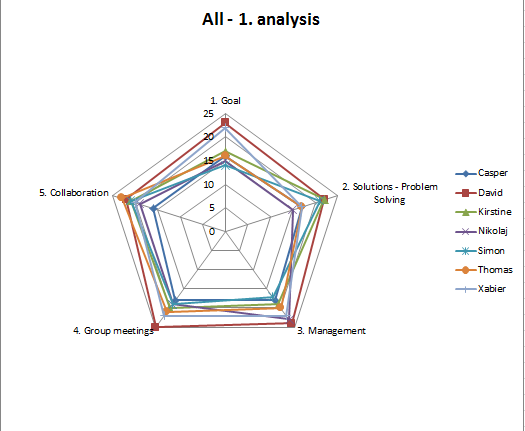
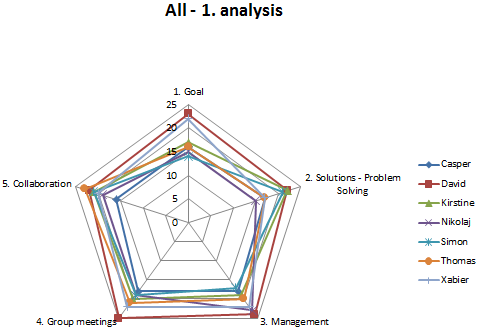
cleaned the spiderweb figures

diff --git a/report/content/Collaboration/Collaborameter.tex b/report/content/Collaboration/Collaborameter.tex
@@ -5,7 +5,7 @@ The first time the Collaborameter was filled out, some of the statements felt ir
 
 \begin{figure}[h]
 \centering
-\includegraphics[width=0.7\linewidth]{graphics/1analysisCollaborameter}
+\includegraphics[width=0.6\linewidth]{graphics/1analysisCollaborameter}
 \caption[Result from first Collaborameter analysis]{The result from the first Collaborameter analysis. Each person has a color. The further the color is from the center of the spiderweb, the more satisfied the person is with the groupwork.}
 \label{fig:1analysisCollaborameter}
 \end{figure}
@@ -15,7 +15,7 @@ The second analysis was taken towards in the end of the project, than in the mid
 
 \begin{figure}[h]
 \centering
-\includegraphics[width=0.7\linewidth]{./graphics/2analysisCollaborameter}
+\includegraphics[width=0.6\linewidth]{./graphics/2analysisCollaborameter}
 \caption{The result from the second Collaborameter analysis.}
 \label{fig:2analysisCollaborameter}
 \end{figure}
@@ -24,7 +24,7 @@ The third Collaborameter analysis was done in the end of the project, when almos
 
 \begin{figure}
 \centering
-\includegraphics[width=0.7\linewidth]{./graphics/3analysisCollaborameter}
+\includegraphics[width=0.6\linewidth]{./graphics/3analysisCollaborameter}
 \caption{The result from the third Collaborameter analysis.}
 \label{fig:3analysisCollaborameter}
 \end{figure}
@@ -32,7 +32,7 @@ The third Collaborameter analysis was done in the end of the project, when almos
 The three figures of the Collaborameter results show that the members of the group disagrees about how well the group is functioning. The disagreement is highest in the Group Meetings and the Management sections, and the disagreement increases throughout the project. To test how the rating of the Collaborameter statements changes throughout the project the average of the members Collaborameter ratings of the three analysis are found and shown in figure \ref{fig:ALLanalysisCollaborameter}. It is clear that the Goal categori is the one that changes the least, and the Group meeting is the one that changes the most. All the ratings are most positive in the first analysis, and then becomes more negative. The second and thirs analysis are almost the same. This is due to the short period of time between the ratings. 
 \begin{figure}
 \centering
-\includegraphics[width=0.7\linewidth]{./graphics/ALLanalysisCollaborameter}
+\includegraphics[width=0.45\linewidth]{./graphics/ALLanalysisCollaborameter}
 \caption[Average result of the Collaborameter results]{The average result from the three Collaborameter analysis. The progress of the group work can be seen.}
 \label{fig:ALLanalysisCollaborameter}
 \end{figure}

diff --git a/report/master_doc.tex b/report/master_doc.tex
@@ -82,6 +82,7 @@
 \input{./content/Collaboration/Swot}
 \input{./content/Collaboration/GPITGAIT}
 \input{./content/Collaboration/StudentToStudentCollaboration}
+\clearpage
 \input{./content/Collaboration/Collaborameter}
 \clearpage
 \input{./content/Innovation_and_business/pictures}
@@ -111,5 +112,6 @@
 \include{content/Appendix/Simon_student_teaching}
 \include{content/Appendix/KirstineStudentToStudent}
 \include{content/Appendix/Xabier_student_teaching}
+\include{content/Appendix/david_student_teaching}
 % \include{./content/Appendix/}
 \end{document}

diff --git a/report/content/Appendix/david_student_teaching.tex b/report/content/Appendix/david_student_teaching.tex
@@ -10,7 +10,7 @@ Main focus was laid upon these terms:
 \item Integration
 \item Centralization/decentralization
 \item Organic/mechanistic structure
-\iten Standardization/Mutual adjustment
+\item Standardization/Mutual adjustment
 \item Decription of the problems arising with these terms
 \item Application of these terms to our situation
 \end{itemize}
